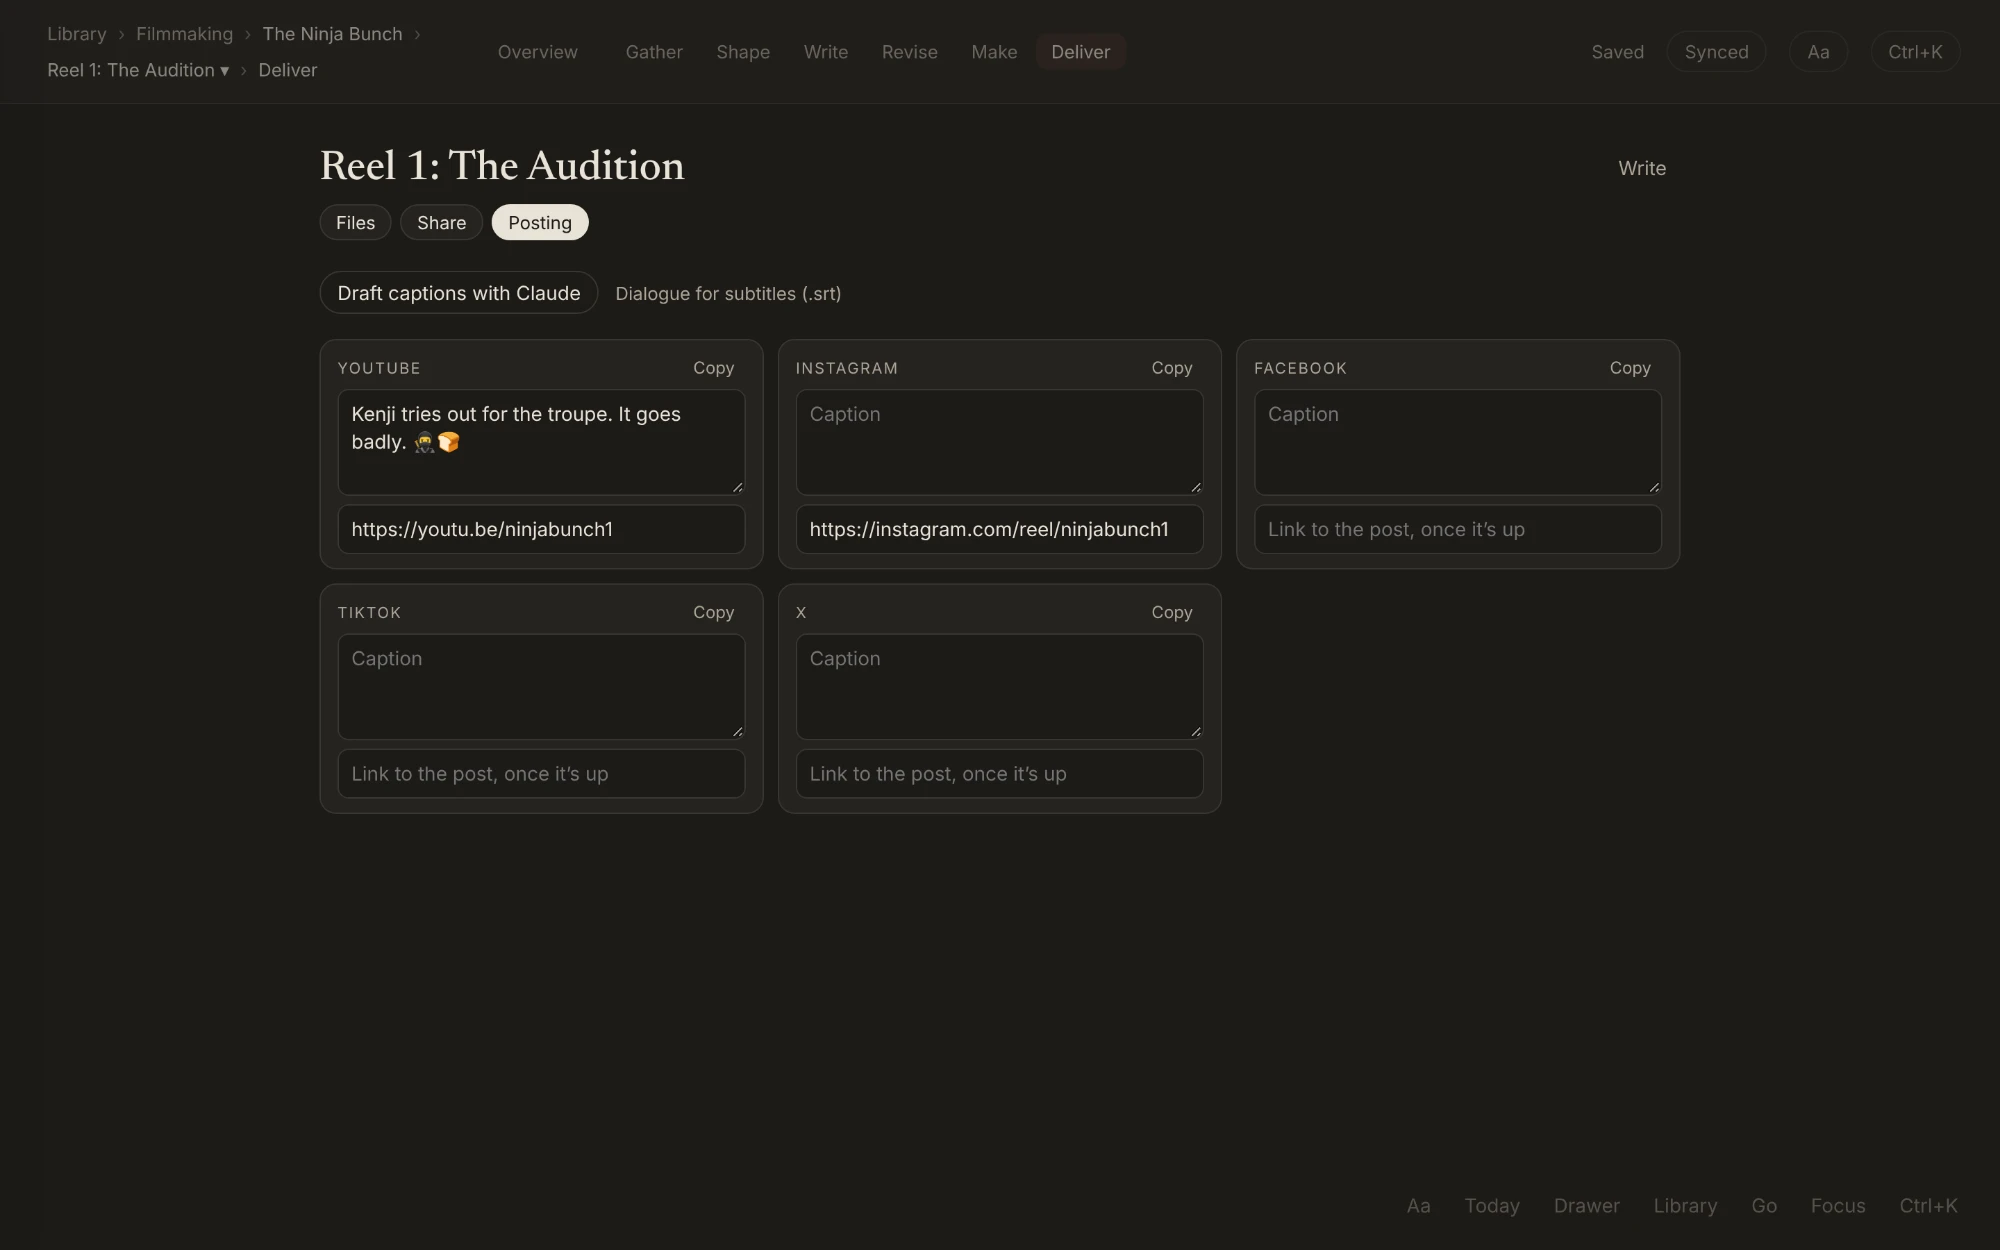
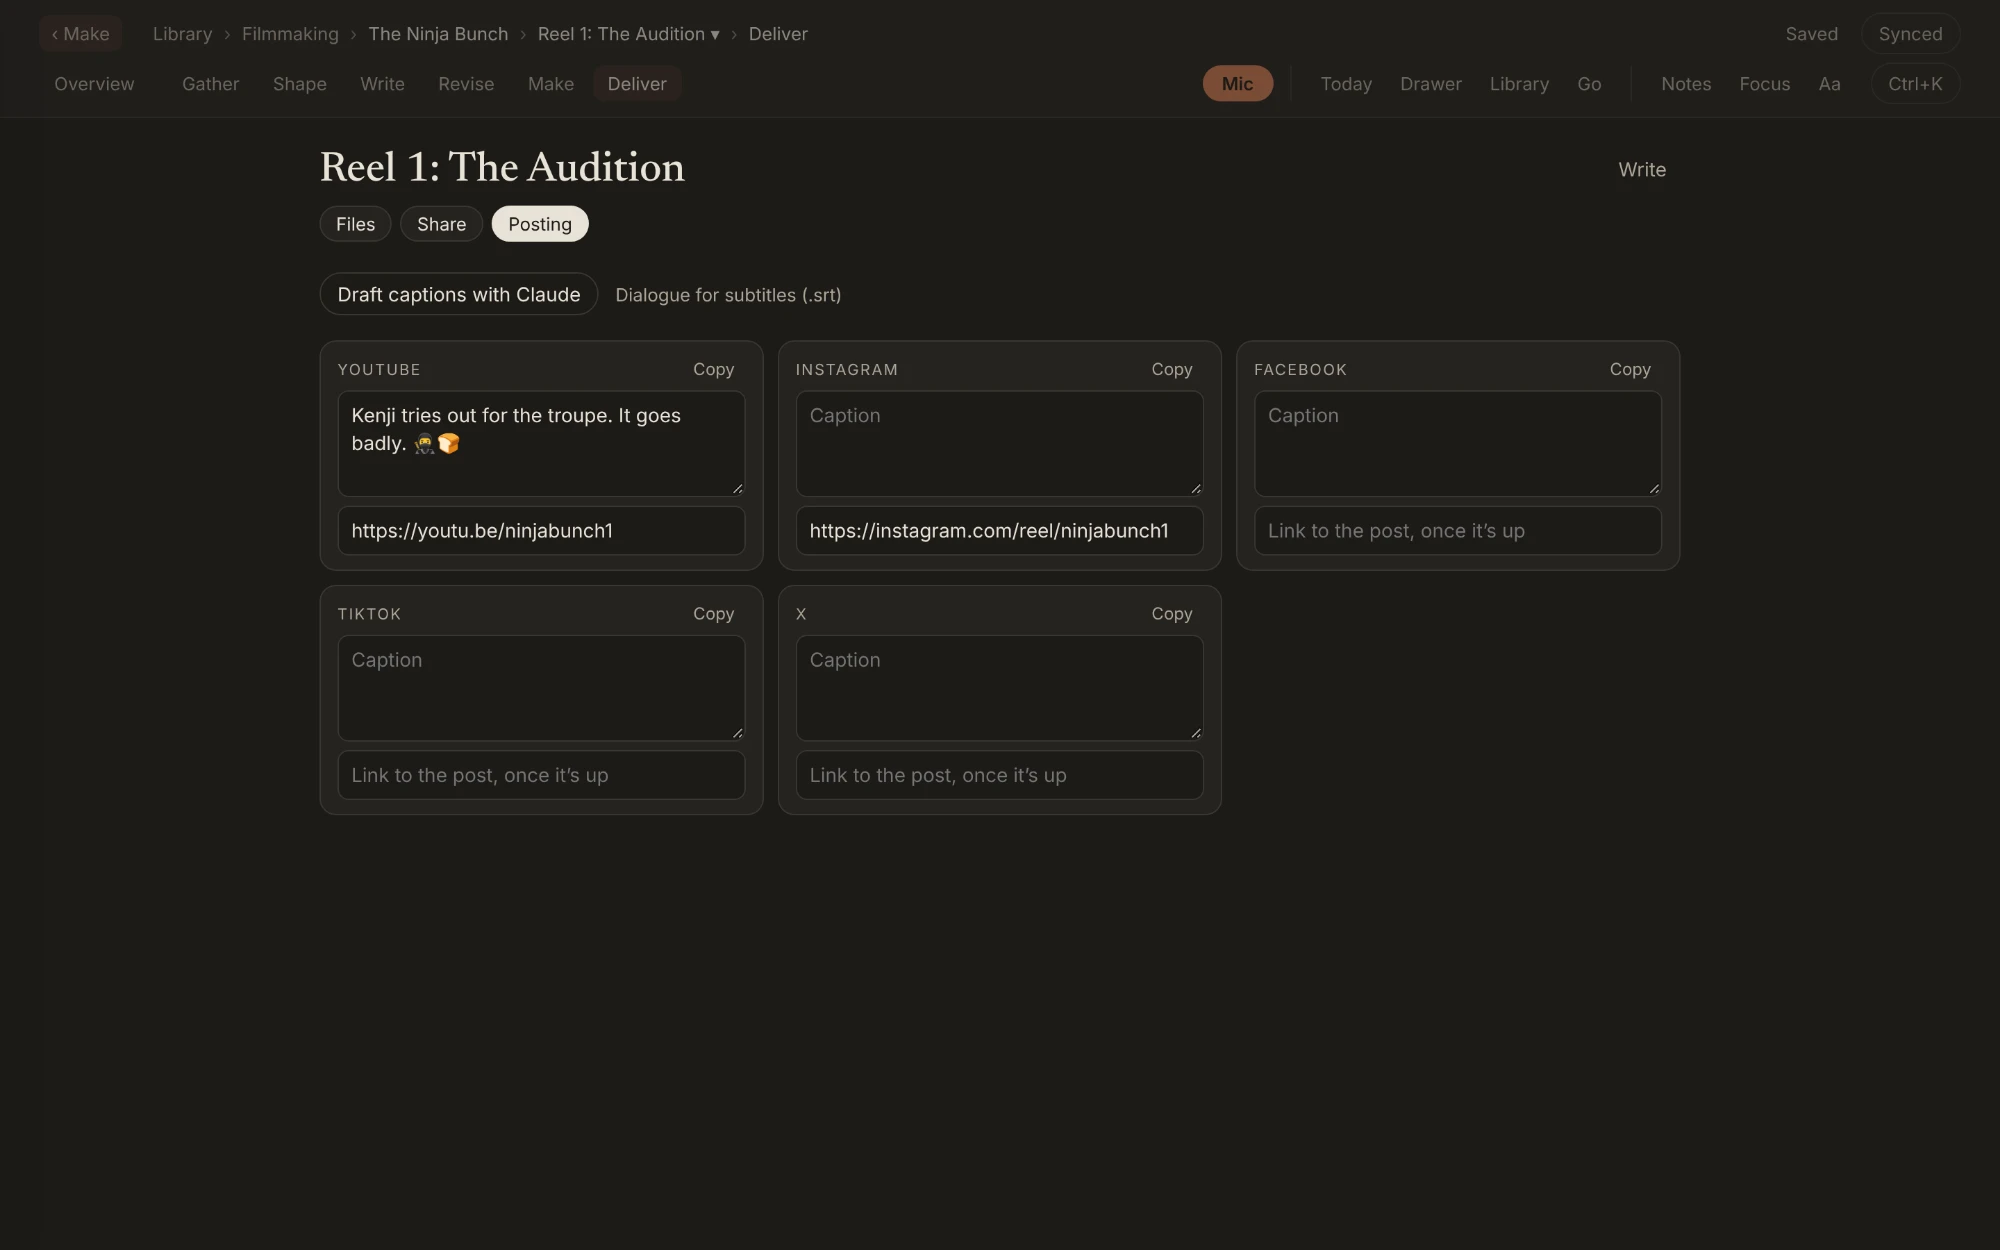
README: weekly refresh (new top bar, statuses on Overview, workflows, Make tools, Bring in old notes, What Claude knows)
Retakes the screenshots; the stage board shot is replaced by the
workflow editor and the kit, and a Bring in old notes shot is added.

Claude-Session: https://claude.ai/code/session_01Wgh3ujnzx5xnXDe4kxXvuv

diff --git a/README.md b/README.md
@@ -10,7 +10,7 @@ Most tools cover one step: a notes app for ideas, a screenwriting app for the sc
 - **Make it.** Shots with codes that never change, still and video prompts written from your bible and style rules, renders with the best take starred, a storyboard you can play, and call sheets for live shoots.
 - **Get it out.** Captions for YouTube, Instagram, Facebook, TikTok and X, subtitles and shot lists for Resolve, and read-and-comment links for collaborators.
 
-Novels and other writing go through the same tabs, with their own stages. Claude helps when you ask and stays quiet while you write.
+Novels and other writing go through the same tabs, each with its own workflow. Claude helps when you ask and stays quiet while you write.
 
 Live at https://laserbunny-coder.github.io/inkwell/
 
@@ -18,7 +18,7 @@ Live at https://laserbunny-coder.github.io/inkwell/
 
 Every screenshot here uses made-up sample data: **The Ninja Bunch**, an anime mockumentary musical told in short reels, about a family bakery that raises a troupe of hopeless ninjas. They're in dark mode; there's a light mode too. Shortcuts are written for Windows.
 
-**1. Say it.** On a walk, tap the mic: "Kenji catches Grandpa on the roof at night, using the rolling pin for real. Scratch that, he sees it by accident. Note to self, ask Dana about the roof set." It lands on today's page, written up as an idea, with the note to self on its own line.
+**1. Say it.** On a walk, tap the mic: "Kenji catches Grandpa on the roof at night, using the rolling pin for real. Scratch that, he sees it by accident. Note to self, ask Dana about the roof set." It lands on today's page, written up as an idea: one line to glance at, with the rest and the note to self folded under it.
 
 ![A voice idea written up on today's page](docs/screenshots/desktop-today.webp)
 
@@ -47,16 +47,16 @@ You only need four things to use Inkwell. Everything else is there when you reac
 | | Computer | Phone |
 |---|---|---|
 | **Today**, your daily page | `Ctrl + J` | Today in the bottom bar |
-| **Talk**, one voice button | `Alt + C` (again to keep it) | the mic in the bottom bar, or long-press the Inkwell icon |
+| **Talk**, one voice button | `Alt + C` (again to keep it), or Mic in the top bar | the mic in the bottom bar, or long-press the Inkwell icon |
 | **Every command** | `Ctrl + K` | ⋯ in the bottom bar |
 | **A project's tabs** | `Alt + 0` to `Alt + 6` | the tabs along the top |
 
 ### Catch it
 
-**Today's page** (`Ctrl + J`) is one page a day for anything: plans, ideas, research, links to pieces and pages, and #tags. A voice capture lands with a play button, the time, and a small chip naming the mode Claude wrote it up in (here, Idea). "Note to self" became its own line, and the words you really said are always kept.
+**Today's page** (`Ctrl + J`) is one page a day for anything: plans, ideas, research, links to pieces and pages, and #tags. A voice capture lands with a play button, the time, and a small chip naming the mode Claude wrote it up in (here, Idea). It shows just its first line, with the rest folded under it; the arrow opens it. The words you really said are always kept. Lines nest and fold like Workflowy: `Tab` and `Shift + Tab` move them in and out, `Enter` on a folded line adds the next one after the whole group, and `Ctrl + Shift + Backspace` deletes a line.
 
 
-**One voice button.** `Alt + C` (or the mic on the phone) records and lands where you are: on today's page, into the draft at the cursor, or on the page you're looking at, with a link line on today either way. The record screen says where it will go, with "Today instead" if you change your mind. Said out loud, "scratch that", "start again", "new paragraph" and "next scene" are carried out.
+**One voice button.** `Alt + C`, the Mic in the top bar, or the mic on the phone records and lands where you are: on today's page, into the draft at the cursor, or on the page you're looking at, with a link line on today either way. The record screen says where it will go, with "Today instead" if you change your mind. Said out loud, "scratch that", "start again", "new paragraph" and "next scene" are carried out, and "note to self…" goes on its own line. On a phone, the recording pauses while the screen is off and tells you so, rather than letting the write-up guess over silence.
 
 ![The record screen, saying the recording goes into the script](docs/screenshots/desktop-record.webp)
 
@@ -68,6 +68,12 @@ Voice modes (Idea, Journal, Scene, Text message, Email, or your own) are yours t
 
 ![The Drawer](docs/screenshots/desktop-drawer.webp)
 
+**Bring in old notes** (`Ctrl + K`) from Thymer, Tana, Workflowy or OneNote: paste a section or drop an exported file (.md, .txt, .opml), and its nesting comes in intact. Claude suggests where it goes, a title, a one-line about and tags, and ticks the old to-dos that still look alive. You change anything before it comes in, and there's Undo.
+
+![Bringing in a section of old notes from Workflowy](docs/screenshots/desktop-bring-in.webp)
+
+**What Claude knows.** Claude keeps a one-line note on each page, piece and world, plus weekly summaries, so it can find things for you. "What Claude knows" in `Ctrl + K` or a ⋯ menu shows them; elsewhere they stay out of sight.
+
 **Day review.** In the evening Inkwell can nudge you to review the day. Claude writes a few sentences on how it went, then offers a card per thread: send it to your task app, Keep thinking, Split or Let go. Nothing is sent until you tap.
 
 ### Every project is a world
@@ -76,7 +82,7 @@ Voice modes (Idea, Journal, Scene, Text message, Email, or your own) are yours t
 
 ![The Library](docs/screenshots/desktop-library.webp)
 
-**Overview** (`Alt + 0`) is a world's home: its logline, pieces by stage, and what to do next (things to file, promises not paid off, the next shoot day). The Ninja Bunch is a Show, so it talks in seasons and episodes, alongside its reels, gags and songs. Each piece has its own label and stage.
+**Overview** (`Alt + 0`) is a world's home: its logline, where everything is, and what to do next (things to file, promises not paid off, the next shoot day). The Ninja Bunch is a Show, so it talks in seasons and episodes, alongside its reels, gags and songs. Each piece has one status that says what's happening to it (New idea, Writing, Boarding, Generating, Editing, Posted), and one button that moves it on, with Undo.
 
 
 ### The seven tabs
@@ -119,13 +125,13 @@ Prose is just the page. Notes sit in the margin beside the paragraph they belong
 - **Claude's notes** gives margin notes and a fix list when you ask, and "Talk this chapter over with Claude" opens a conversation about it.
 - **Print** (`Ctrl + P`) gives clean pages to print or save as PDF.
 
-**Make** (`Alt + 5`) is production. The stage board shows every piece by stage; drag a card to move it on. Each kind of piece goes through its own **stage set**: AI video (Idea, Written, Boarded, Generated, Edited, Posted), Live action (… Prepped, Shot, Edited, Released), Book (… Outlined, Drafted, Revised, Edited, Published), Stage and Short writing. Here the reels are AI video, Reel 3 is shot live on the bakery roof, and the song is short writing. The last stage always means out in the world.
+Each kind of piece goes through its own **workflow**: AI video, Live action (… Prepping, Shooting, Editing, Released), Book (… Outlining, Drafting, Revising, Editing, Published), Stage and Short writing. Here the reels are AI video, Reel 3 is shot live on the bakery roof, and the song is short writing. The last step always means out in the world. "Workflow…" on the Overview picks which workflow scripts, prose and outlines go through, renames, reorders, adds or removes steps, and turns Make's tools on or off. "Save as my own workflow" keeps it for your next project, and New offers it when you start one.
 
-![Make: the stage board, one row per stage set](docs/screenshots/desktop-stage-board.webp)
+![The workflow editor for The Ninja Bunch](docs/screenshots/desktop-workflow.webp)
 
-"Stages…" picks which set scripts, prose and outlines go through in this project, and renames, adds, removes or reorders a set's stages. It says first what will move, and has Undo. One piece can go through another set from its ⋯ menu.
+**Make** (`Alt + 5`) holds the tools for making it: the kit and shoot days for the whole world, and shots and a storyboard in each piece. A book or short writing doesn't get the video tools.
 
-![Stages… for The Ninja Bunch](docs/screenshots/desktop-stage-sets.webp)
+![Make: the kit](docs/screenshots/desktop-kit.webp)
 
 Inside a piece, **Production** (`Ctrl + Shift + S`) turns the script into what's needed to generate or shoot it. Each scene shows the bible elements it uses (found in its words), its production notes and its shots. Shot codes like `NB-R02-S01-01` never change, so file names and Resolve clips keep pointing at the right shot. Each shot has still and video prompts and its renders; the star marks the one that worked, and earlier prompts are never lost. Each shot says how it's made (Generated, From reference, or Live action), and each scene with lines says whether its voices are recorded, generated or both. "Download kit" zips a shot's prompts and reference pictures for PixAI, Seedance or ComfyUI.
 
@@ -143,7 +149,7 @@ The **storyboard** shows every shot in order with its starred still. "Play" runs
 
 ### Getting around
 
-On a computer, a faint line at the top left says where you are and offers "‹ last place". `Ctrl + O` opens the **Go panel**: search anything, jump back to your last five places, go up the path, pick one of this project's tabs, or open Today, the Drawer, the Library or Tags. `Ctrl + O` then `Enter` flips back to where you just were.
+On a computer, one bar at the top comes down when you move the mouse to the top edge, and tucks away while you write. Its top row has Back (`Alt + Left`), where you are, and saved and synced. Its second row has the project's tabs and the tools: Mic, Today, Drawer, Library, Go, Notes, Focus, Aa and `Ctrl + K`. `Ctrl + O` opens the **Go panel**: search anything, jump back to your last five places, go up the path, pick one of this project's tabs, or open Today, the Drawer, the Library or Tags. `Ctrl + O` then `Enter` flips back to where you just were.
 
 ![The Go panel](docs/screenshots/desktop-go.webp)
 
@@ -206,6 +212,7 @@ All of them are also in `Ctrl + /`.
 | `Alt + C` | Record; again to keep it (lands where you are) |
 | `Ctrl + K` | Every command |
 | `Ctrl + O` | Go panel (`Enter` flips back) |
+| `Alt + Left` | Back |
 | `Ctrl + Shift + O` | Library |
 | `Alt + 0` to `Alt + 6` | Overview, Gather, Shape, Write, Revise, Make, Deliver |
 | `Ctrl + .` | Focus |
